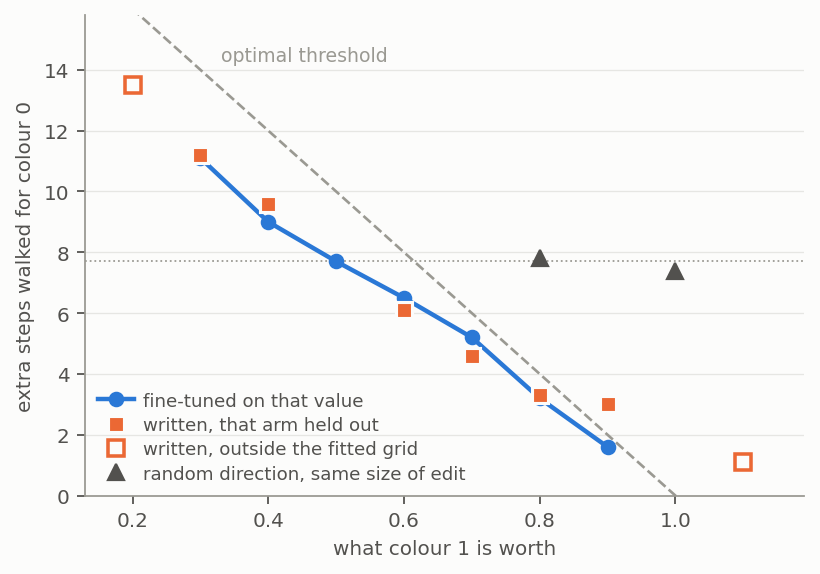
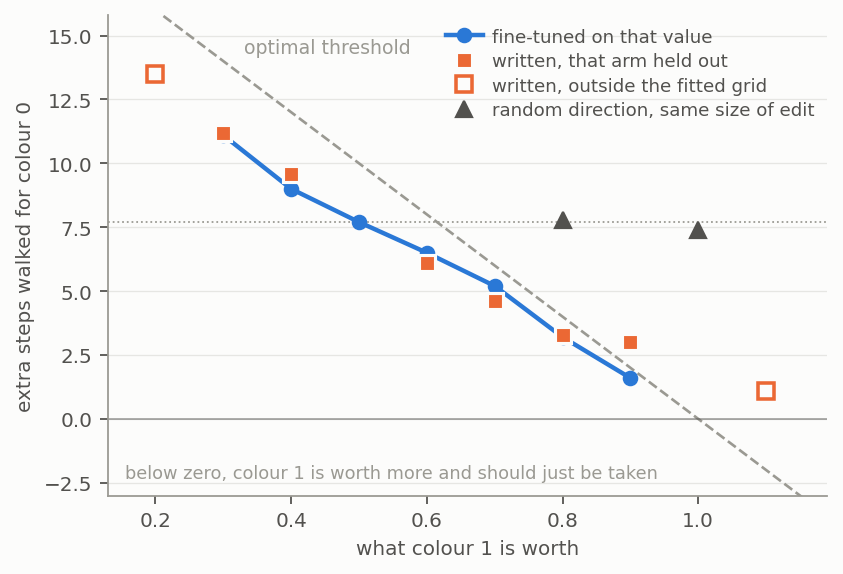
Let fig10 show the failure it was already plotting
The v=1.1 point was on the panel but the failure was not: ylim started at 0, so
the optimal line left the axis at exactly the point where it goes negative. With
colour 1 worth 1.1 against colour 0's 1.0 the agent should require colour 0 to be
two steps nearer before taking it; the written edit leaves it walking 1.1 extra
steps to reach colour 0 instead. That is a point on the wrong side of zero, and
zero has to be on the figure for anyone to see it.

Axis now runs to -3 with a zero line, and the legend moves to the upper right,
which was empty and is no longer where the negative region needs the space.

diff --git a/figures/make_figures.py b/figures/make_figures.py
@@ -212,11 +212,18 @@ def fig_written_value():
     ax.set_xlabel("what colour 1 is worth")
     ax.set_ylabel("extra steps walked for colour 0")
     ax.set_xlim(0.13, 1.19)
-    ax.set_ylim(0, 15.8)
+    # Down to -3 rather than 0 so the optimal line stays on the panel past v=1.0,
+    # where it goes negative: beyond that point colour 1 is worth more and the
+    # agent should take it unless colour 0 is strictly nearer. Clipped at zero
+    # the line simply left the axis, which hid the one place the edit fails.
+    ax.set_ylim(-3.0, 15.8)
+    ax.axhline(0, color=INK2, lw=0.8, alpha=0.5, zorder=1)
+    ax.annotate("below zero, colour 1 is worth more and should just be taken",
+                xy=(0.155, -2.3), color=MUTED, fontsize=8)
     ax.spines[["top", "right"]].set_visible(False)
     ax.grid(axis="y", color=MUTED, alpha=0.22, lw=0.6)
     ax.set_axisbelow(True)
-    leg = ax.legend(loc="lower left", frameon=False, fontsize=8.2, handletextpad=0.5,
+    leg = ax.legend(loc="upper right", frameon=False, fontsize=8.2, handletextpad=0.5,
                     borderpad=0.2, labelspacing=0.35)
     for t in leg.get_texts():
         t.set_color(INK2)
